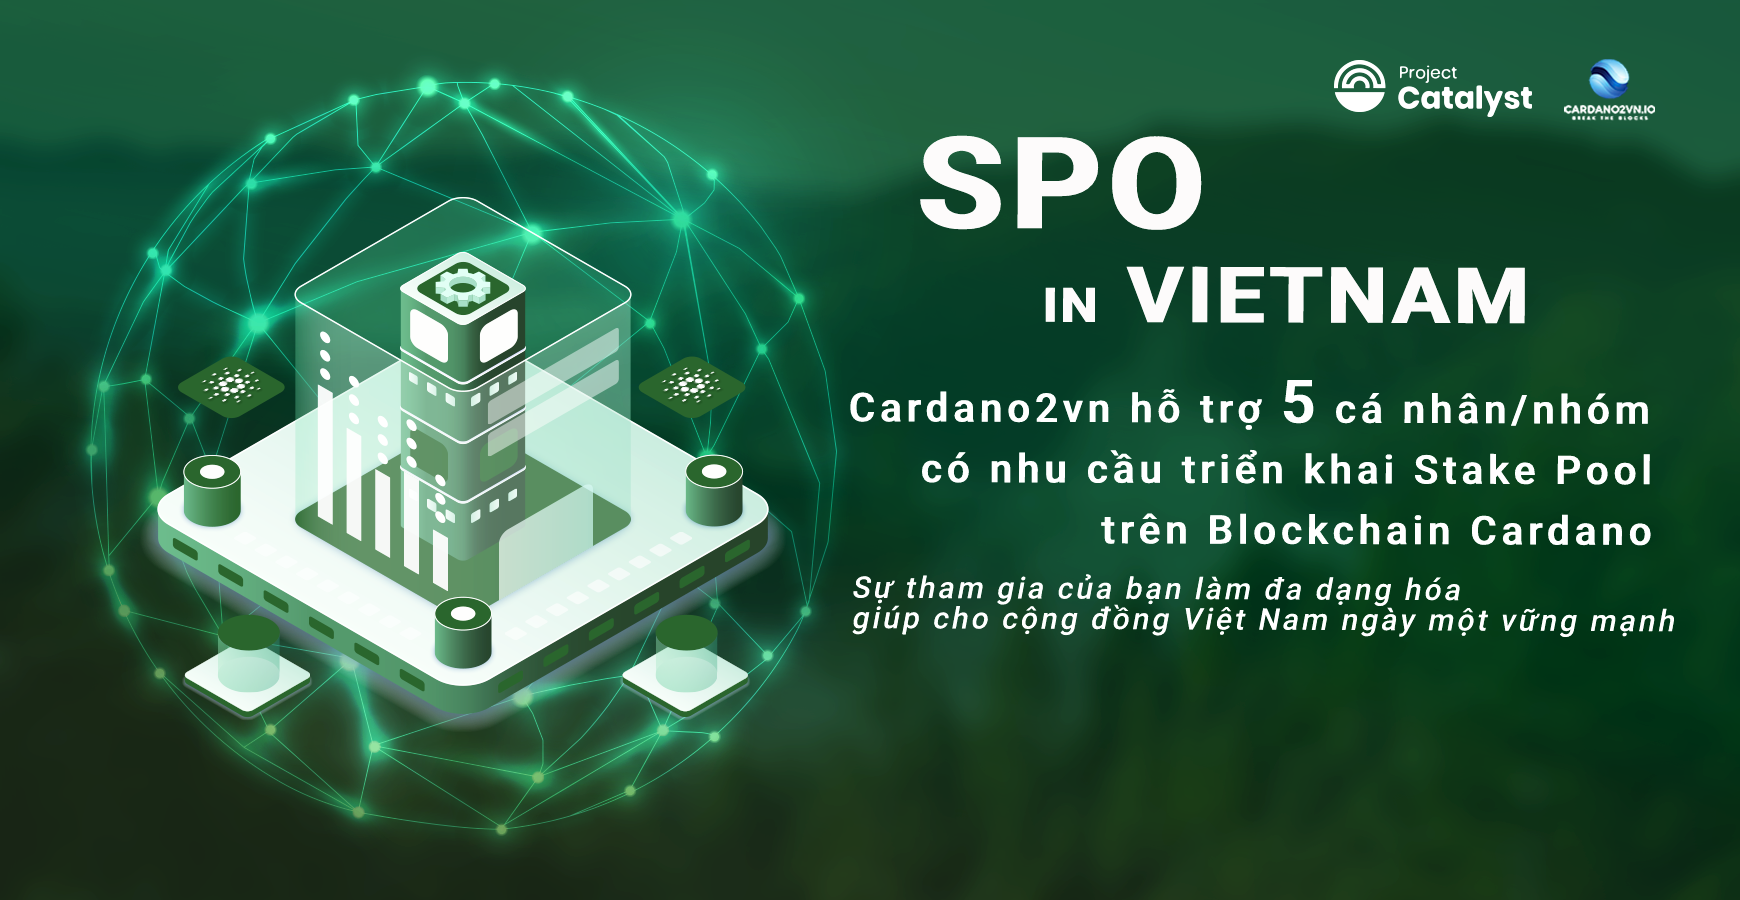
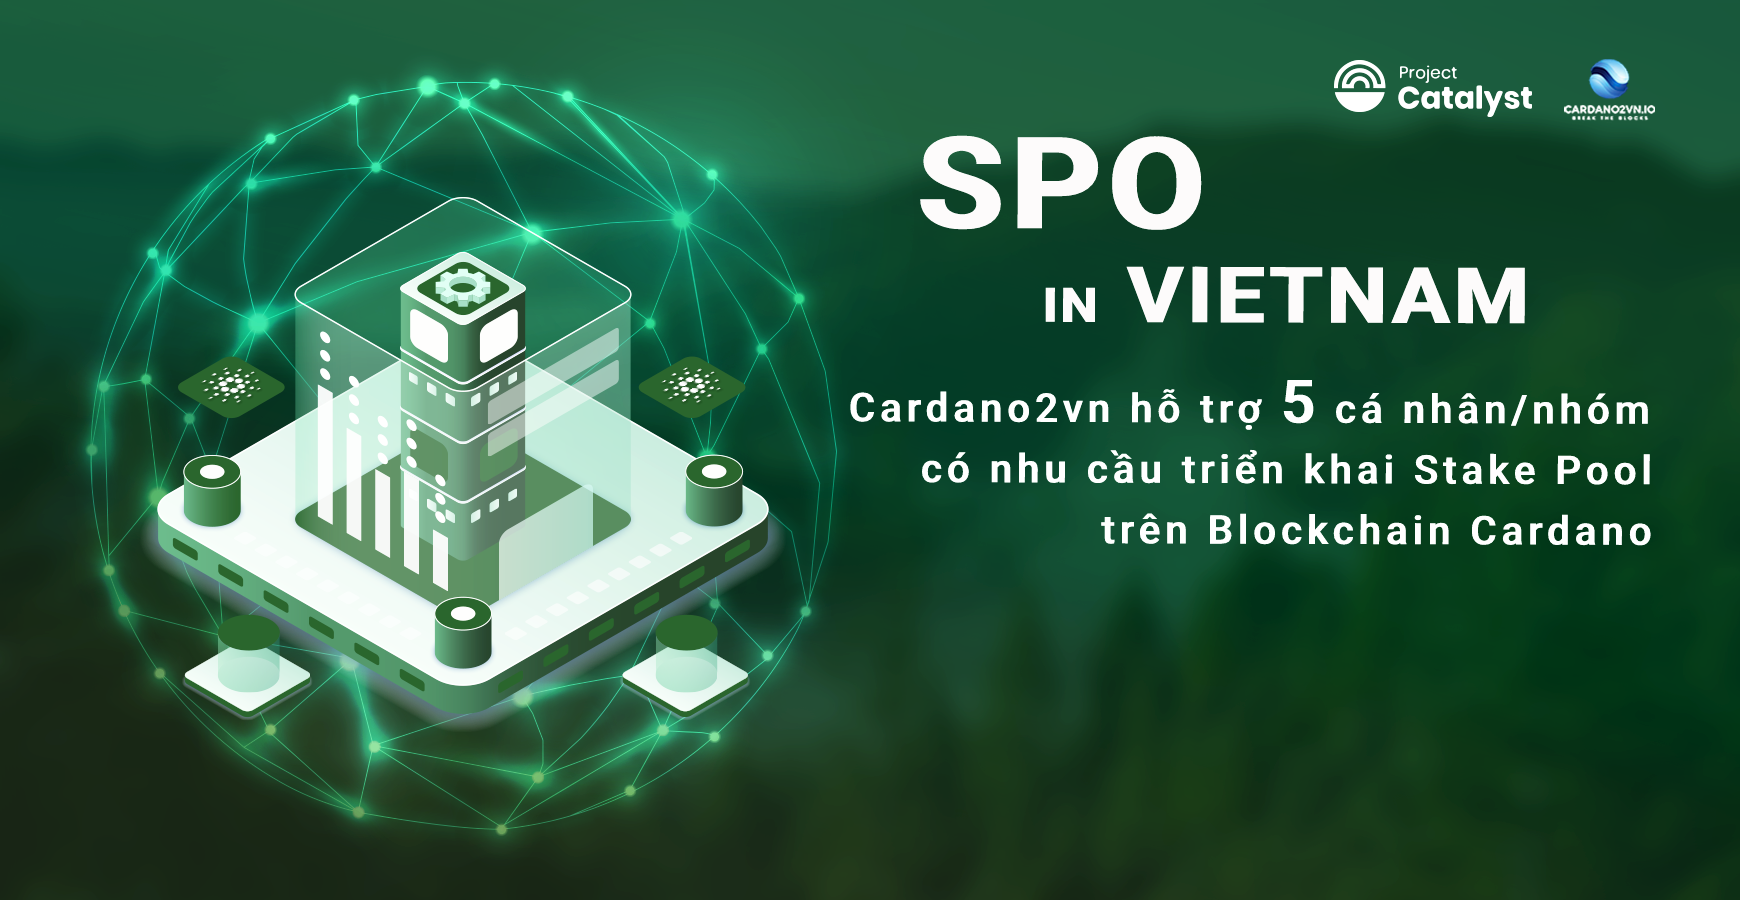
update even SPO

Changed region(s): [[0.4966, 0.6222, 0.9621, 0.7156]]

diff --git a/docs/events/hotro-spo.md b/docs/events/hotro-spo.md
@@ -32,7 +32,7 @@ If you need a companion, technical support person, please leave information to u
 **👉 Thời gian**
 -  Đăng ký trước 23:00 ngày 20/9/2022 hoặc khi có đủ 5 cá nhân/nhóm.
  
-Sự tham gia của bạn sẽ làm đa dạng hóa, giúp cho cộng đồng Việt nam ngày một vững mạnh và Chúng tôi cần bạn.
+»»» Sự tham gia của bạn làm tăng tính phi tập trung cho mạng lưới cardao và  giúp cho cộng đồng Việt nam ngày một vững mạnh.
 
 
 —---------------------------------------------------------
